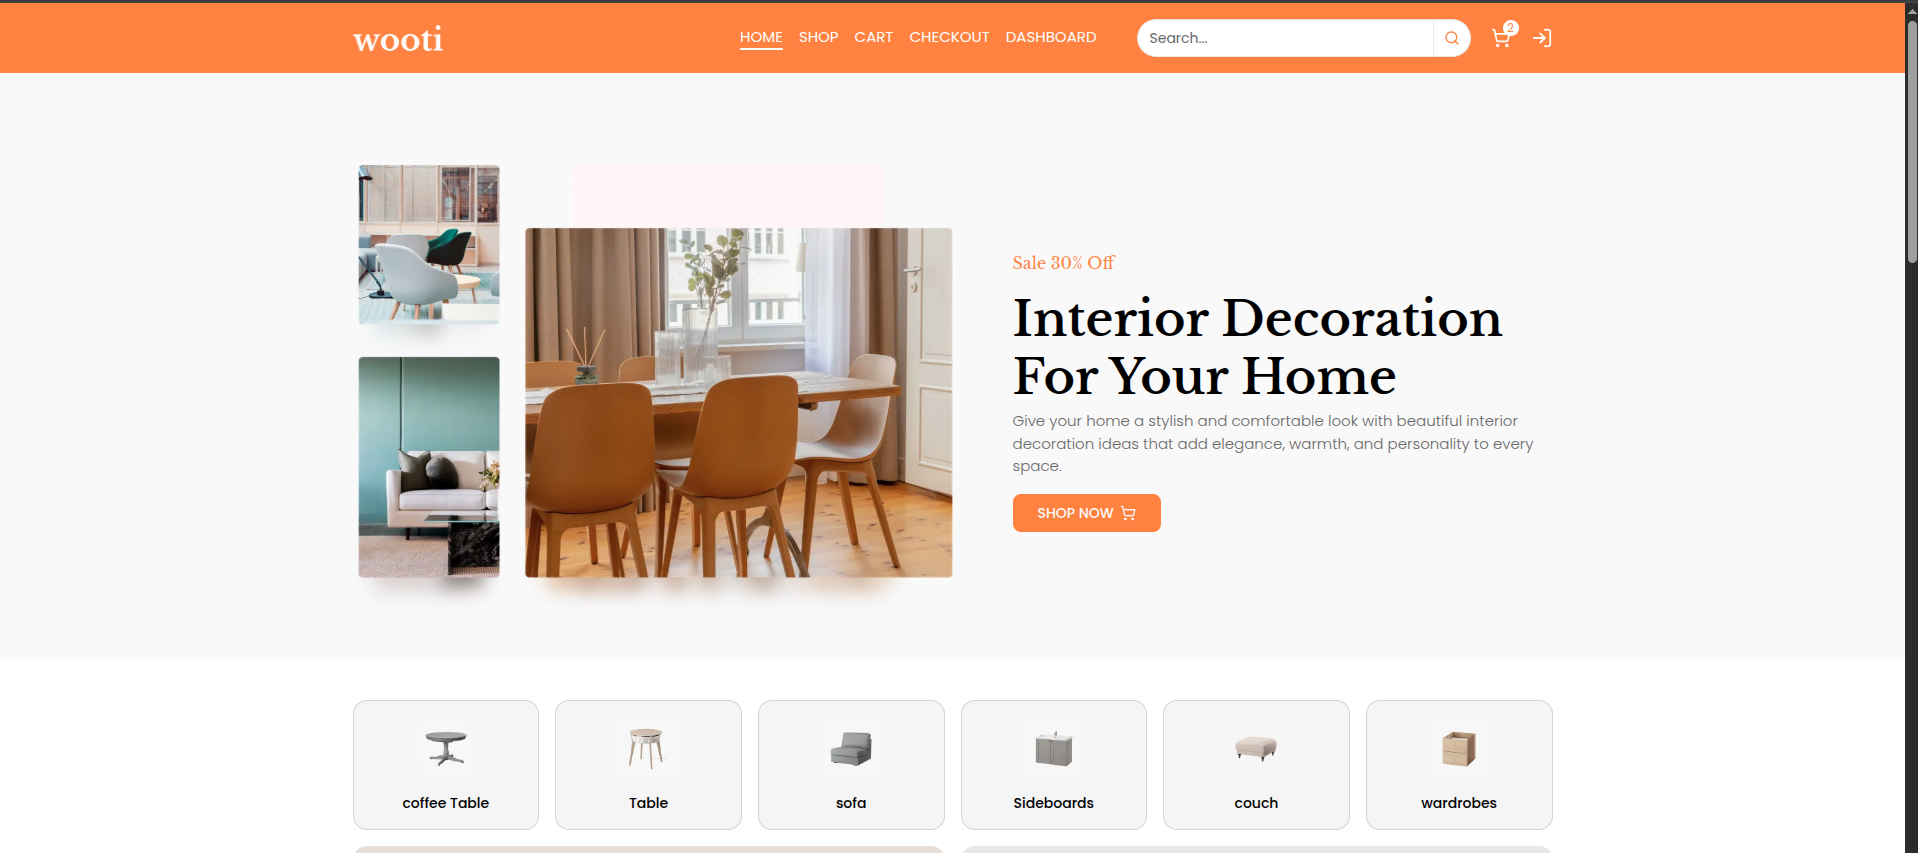
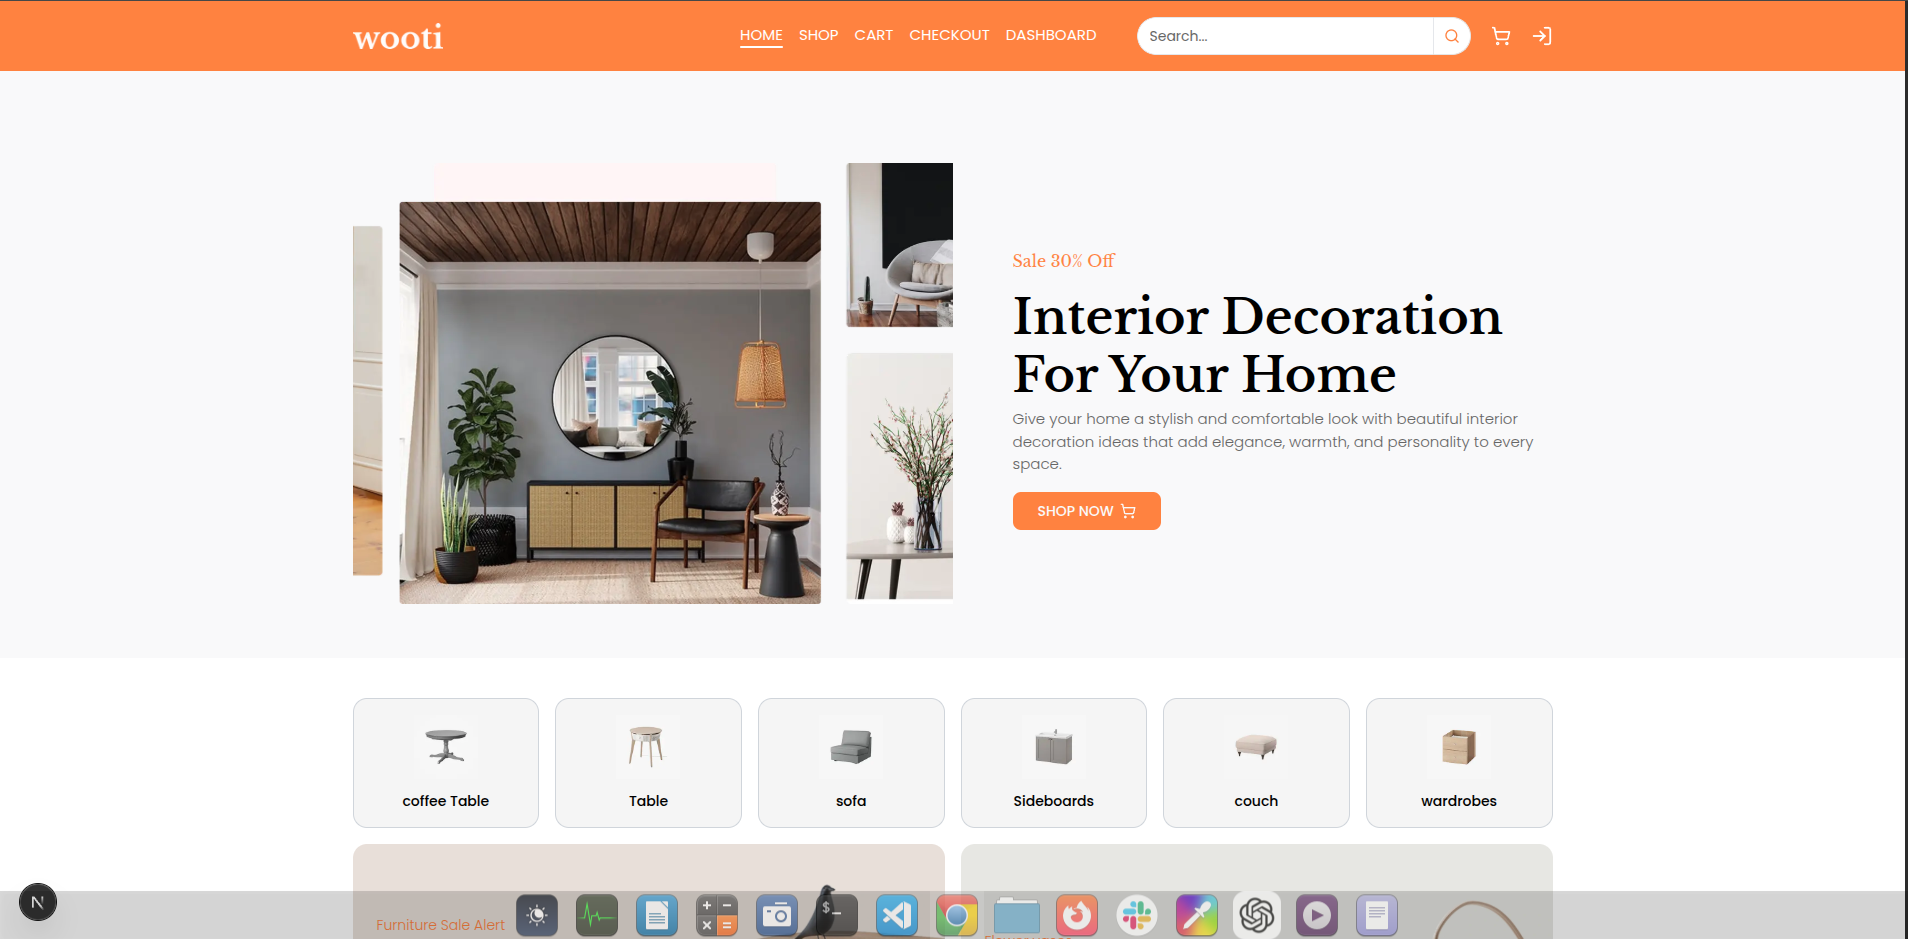
fix: filter bug fixes + README update with screenshots

diff --git a/src/app/(dashboard)/dashboard/page.jsx b/src/app/(dashboard)/dashboard/page.jsx
@@ -2,7 +2,9 @@ import { getOrder } from '@/actions/orderAction';
 import AppBreadcrumb from '@/components/shared/AppBreadcrumb';
 import StatusBar from '@/components/shared/StatusBar';
 import UserResentOrderList from '@/components/shared/UserResentOrderList';
+import authOptions from '@/libs/authOptions';
 import { LayoutDashboard, ShoppingBag, Heart, Wallet } from 'lucide-react';
+import { getServerSession } from 'next-auth';
 import Link from 'next/link';
 
 const style = {
@@ -10,6 +12,8 @@ const style = {
 };
 
 const DashboardPage = async () => {
+  const { token } = await getServerSession(authOptions);
+
   const { order } = await getOrder();
   const orderStatus = order?.map(item => item.orderStatus);
   const TotalSpent = order.reduce((acc, curr) => {
@@ -30,7 +34,7 @@ const DashboardPage = async () => {
 
       <div className="bg-whiteCustom border border-gray-200 rounded-xl p-5">
         <div className="mb-5 ">
-          <h5>Welcome back, Jon</h5>
+          <h5>Welcome back, {token?.name}</h5>
           <p>Here&apos;s what&apos;s happening with your account</p>
         </div>
 

diff --git a/README.md b/README.md
@@ -231,9 +231,10 @@ NEXT_PUBLIC_STRIPE_PUBLISHABLE_KEY=
 ## Screenshots
 
 <p float="left">
-  <img src="./public/images/home_.png" width="30%" />
-  <img src="./public/images/shop_.png" width="30%" />
-  <img src="./public/images/admin_das_.png" width="30%" />
+  <img src="./public/images/home_.png" width="50%" />
+  <img src="./public/images/shop_.png" width="50%" />
+  <img src="./public/images/admin_das_.png" width="50%" />
+  <img src="./public/images/user_des_.png" width="50%" />
 </p>
 ---
 